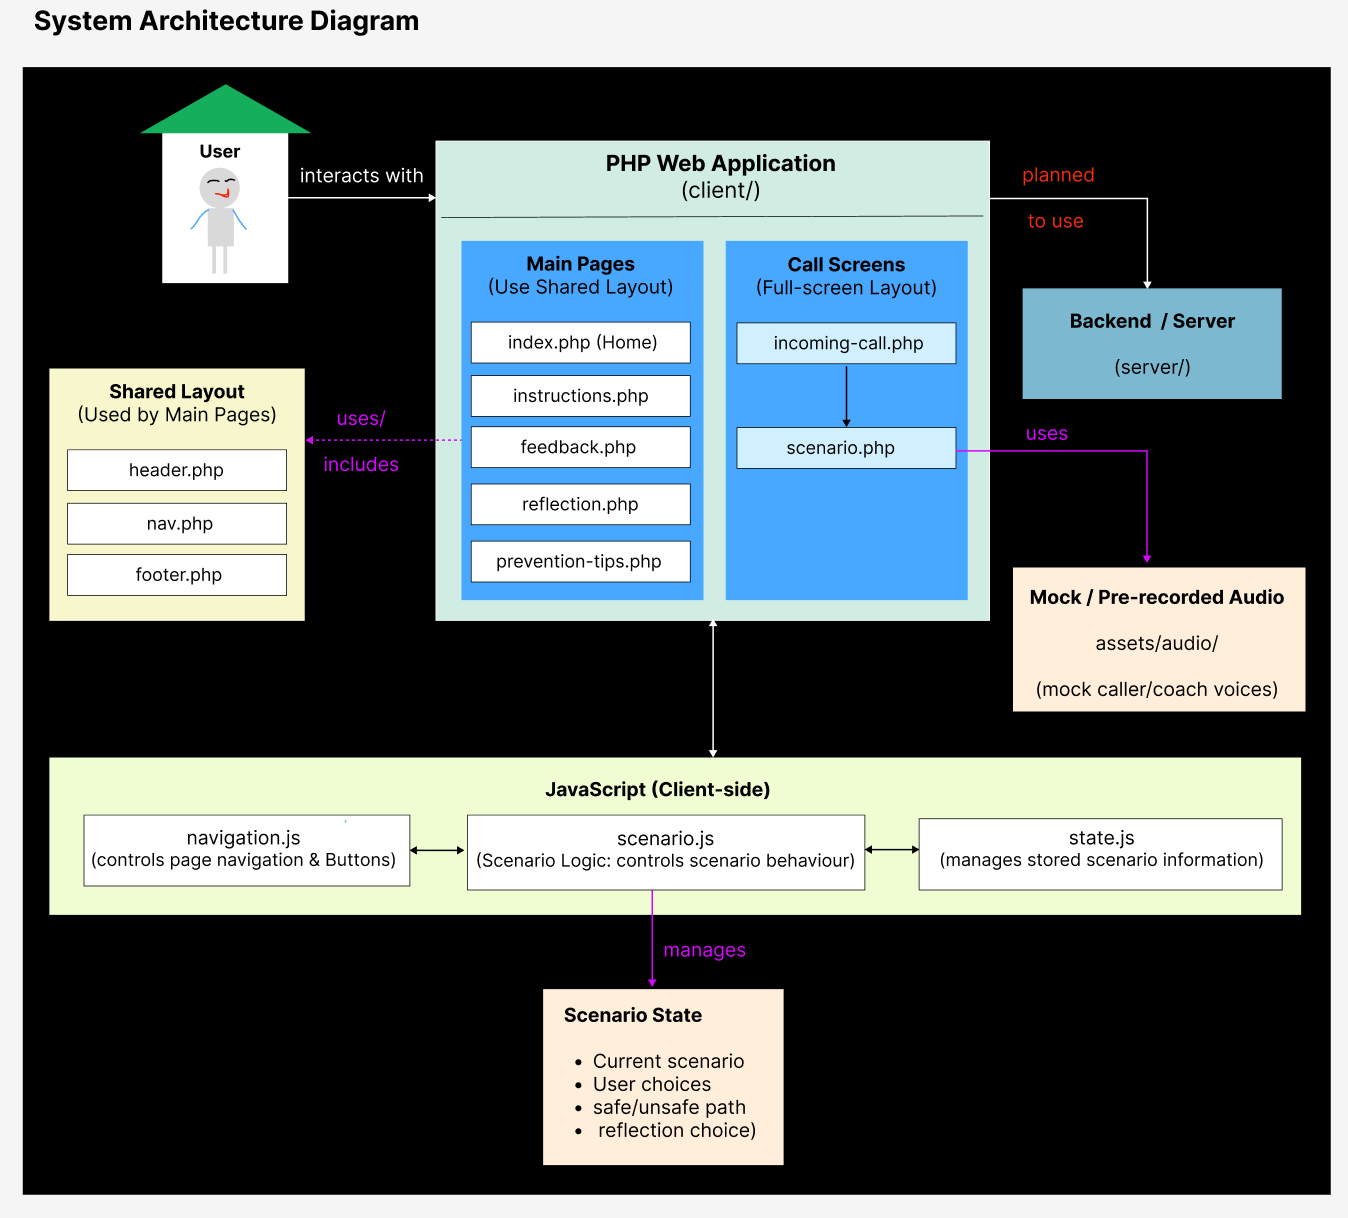
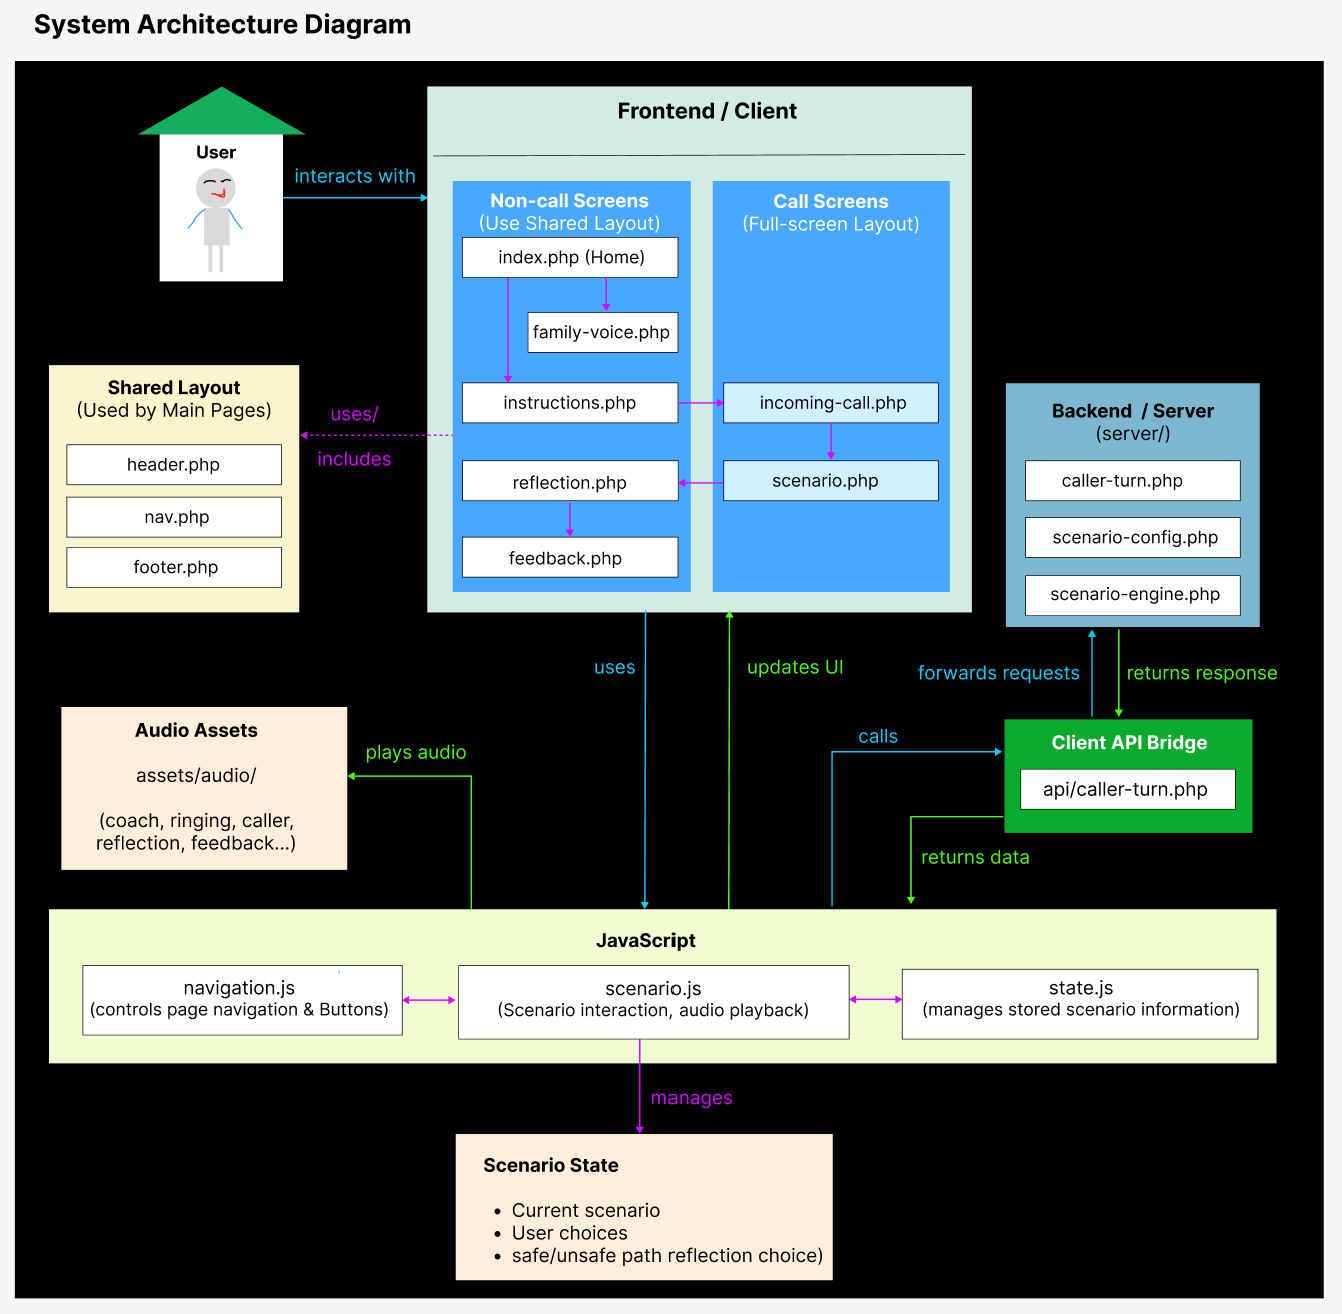
Update documents

diff --git a/README.md b/README.md
@@ -5,37 +5,92 @@
 
 ## Project Overview
 
-Beat the Scammer is an interactive training prototype designed to help older adults recognise and respond to AI voice impersonation scams.
+Beat the Scammer is an interactive training application designed to help older adults recognise and respond to AI voice impersonation scams.
 
-The prototype simulates a scam phone call using pre-recorded or mock audio. Users navigate the scenario using buttons, make decisions during the simulated call, follow different response paths and receive feedback and scam prevention advice.
+The user experiences a simulated scam phone call and makes decisions during the conversation. The application then provides feedback, reflection and practical prevention advice.
 
-The prototype is designed to demonstrate the core user journey without requiring live voice recognition technology. A future real-world version could use live voice interaction to make the simulated phone call more realistic.
+## User Experience
 
-## Project Objectives
+The application takes the user through a simulated scam call:
 
-The prototype aims to:
+```text
+Home  
+ ↓  
+Instructions  
+ ↓  
+Incoming Call  
+ ↓  
+Scenario / Conversation  
+ ↓
+User Response  
+ ↓
+Safe / Unsure/ Unsafe Response  
+ ↓
+Continue Scenario  
+ ↓
+Call Ends  
+ ↓
+Reflection  
+ ↓
+Feedback  
+ ↓
+AI Voice / Real Person  
+ ↓
+Explanation / Reveal  
+ ↓
+Prevention Tips  
+ ↓
+End
+```
 
-* Help users recognise common AI impersonation scam techniques.
-* Identify warning signs such as urgency and emotional manipulation.
-* Practise safer responses to suspicious callers.
-* Encourage users to verify caller identity before taking action.
-* Provide feedback that reinforces safer decision-making.
+During the call, the user responds to the simulated caller using the available choices. Different choices lead to safe or unsafe response paths before returning to the main scenario.
 
-## Technology
+After the call ends, the user provides feedback and completes a reflection activity. The reflection asks the user to identify whether the caller was an AI voice or a real person. The application then explains the result and provides practical scam prevention tips.
 
-The prototype is planned to use:
+The prototype uses pre-recorded caller audio rather than live voice recognition.
 
-* HTML
-* PHP
-* CSS
-* JavaScript
-* Pre-recorded or mock audio
-* Visual Studio Code
-* Git and GitHub
+## Features
 
-PHP will be used for the page structure and shared layouts. CSS will be used for styling, while JavaScript will manage client-side interaction and scenario state where required.
+* Simple button-based navigation
+* Simulated incoming scam call
+* Interactive conversation
+* Safe, unsure and unsafe response paths
+* Caller audio
+* Feedback after the call
+* AI voice / real person reflection
+* Explanation and reveal
+* Scam prevention tips
+* Mobile-first interface
 
-The final backend technology and audio implementation will be determined during development.
+## How to Run
+
+### Requirements
+
+* PHP 8.x or later
+* A modern web browser
+
+### Start the application
+
+Clone the repository and open the project directory:
+
+```
+git clone https://github.com/cherry4049/3027CCJ-Project.git
+cd 3027CCJ-Project
+```
+
+Start the PHP development server:
+
+```
+php -S localhost:8000 -t client
+```
+
+Then open:
+
+```
+http://localhost:8000
+```
+
+The application will open on the Home screen.
 
 ## Project Structure
 
@@ -44,12 +99,12 @@ The final backend technology and audio implementation will be determined during 
 │
 ├── client/
 │   ├── index.php
+│   ├── family-voice.php
 │   ├── instructions.php
 │   ├── incoming-call.php
 │   ├── scenario.php
-│   ├── feedback.php
 │   ├── reflection.php
-│   ├── prevention-tips.php
+│   ├── feedback.php 
 │   │
 │   ├── includes/
 │   │   ├── header.php
@@ -58,6 +113,11 @@ The final backend technology and audio implementation will be determined during 
 │   │
 │   ├── css/
 │   │   └── style.css
+│   │
+│   │  
+│   ├── api/
+│   │   └── caller-turn.php
+│   │
 │   │
 │   ├── js/
 │   │   ├── navigation.js
@@ -69,7 +129,9 @@ The final backend technology and audio implementation will be determined during 
 │       └── images/
 │
 ├── server/
-│   └── [backend files to be added]
+│   ├── caller-turn.php
+│   ├── scenario-config.php
+│   └── scenario-engine.php
 │
 ├── docs/
 │   ├── application-flow.md
@@ -79,89 +141,39 @@ The final backend technology and audio implementation will be determined during 
 └── .gitignore
 ```
 
-The `client` folder contains the user-facing application. The `server` folder is reserved for backend development. The backend structure will be updated once the backend technology and implementation approach have been confirmed.
+## Audio
 
-## Application Flow
+All audio used by the prototype is stored in:
 
-The planned user flow is:
-
-```text
-Home
-  ↓
-Instructions
-  ↓
-Incoming Scam Call
-  ↓
-Conversation
-  ↓
-User Response
-  ↓
-Safe / Unsafe Response Path
-  ↓
-Feedback
-  ↓
-Continue
-  ↓
-Reflection
-  ↓
-Prevention Tips
+```
+client/assets/audio/
 ```
 
-The exact number of decision points and branching paths may be adjusted during development.
+JavaScript controls audio playback during the simulated call.
 
-## Development Roles
+## Backend and API
 
-The project development responsibilities are currently divided as follows:
+The client communicates with the backend through the Client API Bridge:
 
-**Jorja Telford**
+```text
+JavaScript  
+    ↓  
+client/api/caller-turn.php  
+    ↓  
+server/
+```
 
-* Front-end implementation
-* PHP page development
-* HTML/CSS implementation
-* Interface styling and user interaction
+The API bridge forwards requests to the backend and returns the response to JavaScript. JavaScript uses the returned data to update the interface and control the scenario.
 
-**Luke Sloan**
+## Documentation
 
-* Backend implementation
-* Backend technology selection
-* Audio-related backend functionality
+Additional project documentation is available in the docs/ directory:
 
-**Yuehui (Cherry) Chen**
-
-* Front-end and backend integration
-* File and project structure
-* File skeleton and project setup
-* Application flow and system architecture diagrams
-* Development documentation
-* Git and GitHub management
-
-Responsibilities may be adjusted during development if required to maintain a balanced workload.
-
-## Development Status
-
-### Current Progress
-
-* Low-fidelity prototype completed and updated for button-based navigation.
-* Application flow planned.
-* Technology stack identified.
-* Initial project structure created.
-* Development responsibilities allocated.
-* GitHub repository established.
-* Front-end and server folders prepared.
-
-### Next Steps
-
-* Finalise the application flow and scenario.
-* Complete the initial front-end implementation.
-* Determine the backend approach.
-* Implement and connect backend functionality.
-* Add simulated audio.
-* Test navigation, branching and application functionality.
-* Refine the prototype.
-* Prepare the final presentation and report.
+```
+Application Flow
+System Architecture
+```
 
 ## Repository
 
-This repository contains the development files for the **Beat the Scammer** prototype for 3027CCJ ICT & The Justice System.
-
-The project will be updated throughout the development process.
+[GitHub Repository](https://github.com/cherry4049/3027CCJ-Project)

diff --git a/docs/application-flow.md b/docs/application-flow.md
@@ -4,41 +4,56 @@ The application flow shows the main user journey through the *Beat the Scammer* 
 
 ![application flow diagram](../client/assets/images/application-flow.png)
 
-# Flow Description
+## Flow Description
 
 **Home Screen**
 
 The user starts the training activity from the home screen.
 
 **Instructions**
+
 The user receives instructions explaining the purpose of the activity and how to interact with the simulated call.
 
 **Incoming Scam Call**
-The application displays an incoming call screen to simulate receiving a suspicious phone call.
+
+The application displays an incoming call screen to simulate receiving a suspicious phone call. The user can swipe to answer the call.
 
 **Scenario / Conversation**
-The user follows a simulated conversation with the caller. Mock or pre-recorded audio may be used to represent the caller.
+
+The user follows a simulated conversation with the caller. Pre-recorded audio is used to represent the caller, with different audio played for each stage of the conversation.
 
 **User Response**
-The user selects a response using an on-screen button. The response determines whether the user follows a safe or unsafe response path.
 
-**Safe / Unsafe Response Path**
-The selected response leads to the corresponding path and demonstrates the possible consequences of the user's decision.
+The user selects one of three responses using an on-screen button. Each response is categorised as **Safe**, **Unsure**, or **Unsafe** and determines the next part of the scenario.
+
+**Safe / Unsure / Unsafe Response Path**
+
+The selected response leads to the corresponding response path. The application provides feedback about the user's decision and continues the conversation through the next scenario stage. The scenario contains multiple decisions before the call ends.
+
+**Call Ends**
+
+After the final decision, the simulated call ends and the user proceeds to the feedback and reflection activities.
 
 **Feedback**
-The application explains whether the selected response was appropriate and provides information about the scam.
+
+The application provides feedback about the user's responses and explains relevant aspects of the scam scenario.
 
 **Reflection**
-The user is asked to decide whether the caller was an AI voice or a real person.
 
-**AI Voice / Real Person**
-Both reflection choices lead to an explanation and reveal of the correct answer.
+The user is asked to consider whether the caller could be an AI impersonation scam. The reflection question is presented with three response options.
+
+**Yes / Not Sure / No**
+
+The user selects **Yes**, **Not sure**, or **No** to indicate whether they think the caller was an AI impersonation scam. Each selection produces corresponding feedback and audio.
 
 **Explanation / Reveal**
-The application explains the correct answer and highlights relevant signs or behaviours that the user should consider in a similar situation.
+
+The application reveals that the caller was an AI impersonation scam and explains the correct answer. It highlights relevant signs or behaviours that the user should consider in a similar situation.
 
 **Prevention Tips**
+
 The user receives practical advice for recognising and responding to AI voice impersonation scams.
 
 **End**
+
 The training activity finishes after the prevention information has been presented.

diff --git a/docs/system-architecture.md b/docs/system-architecture.md
@@ -1,8 +1,8 @@
 # System Architecture
 
-The system architecture shows the main components of the *Beat the Scammer* prototype and how the PHP pages, JavaScript, shared layout, audio and future backend functionality work together.
+The system architecture shows the main components of the *Beat the Scammer* prototype and how the PHP pages, JavaScript, Client API Bridge, backend/server, shared layout and audio work together.
 
-![System Architecture diagram](../client/assets/images/system-architecture.png)
+![system architecture diagram](../client/assets/images/system-architecture.png)
 
 ## Main Components
 
@@ -18,11 +18,13 @@ The `incoming-call.php` and `scenario.php` screens use a separate full-screen la
 
 ### JavaScript
 
-The JavaScript files provide client-side interaction.
+The JavaScript files provide client-side interaction and control the communication between the user interface and the backend.
 
 * `navigation.js` manages navigation and button interactions.
 * `scenario.js` manages scenario behaviour and response logic.
 * `state.js` manages the current scenario state and user choices.
+
+JavaScript calls the Client API Bridge when backend data is required. It receives the returned data, updates the user interface, and controls audio playback.
 
 ### Scenario State
 
@@ -30,12 +32,24 @@ The scenario state keeps track of information required during the activity, such
 
 ### Audio
 
-Mock or pre-recorded audio is stored in `assets/audio/` and is used to simulate the caller's voice.
+Pre-recorded audio is stored in `assets/audio/` and is used to simulate the caller's voice, coach's voice and call ringing sound.
+
+JavaScript controls the audio playback when audio is required.
+
+### Client API Bridge
+
+The Client API Bridge provides the connection between the client-side JavaScript and the backend/server.
+
+JavaScript calls the API bridge to send requests. The API bridge forwards these requests to the backend/server and returns the backend response to JavaScript.
 
 ### Backend / Server
 
-The `server/` directory has been prepared for backend functionality. The exact backend approach and functions will be determined during development and integrated with the front end where required.
+The `server/` directory provides the backend functionality for processing requests and returning data to the client.
+
+The backend receives requests forwarded by the Client API Bridge and returns the required response. This allows backend functionality to be integrated with the existing PHP and JavaScript front end without directly connecting the frontend to the server.
 
 ### User Interaction
 
-The overall interaction moves from the PHP pages to JavaScript-based scenario logic. The user's choices determine the safe or unsafe response path and later the AI voice or real person reflection path.
+The overall interaction begins with the PHP pages and user interface. JavaScript handles client-side interactions and communicates with the backend through the Client API Bridge when required.
+
+The user's choices determine the safe, unsure or unsafe response path and later the AI voice or real person reflection path. JavaScript then updates the interface and controls audio playback based on the current scenario state and returned data.
